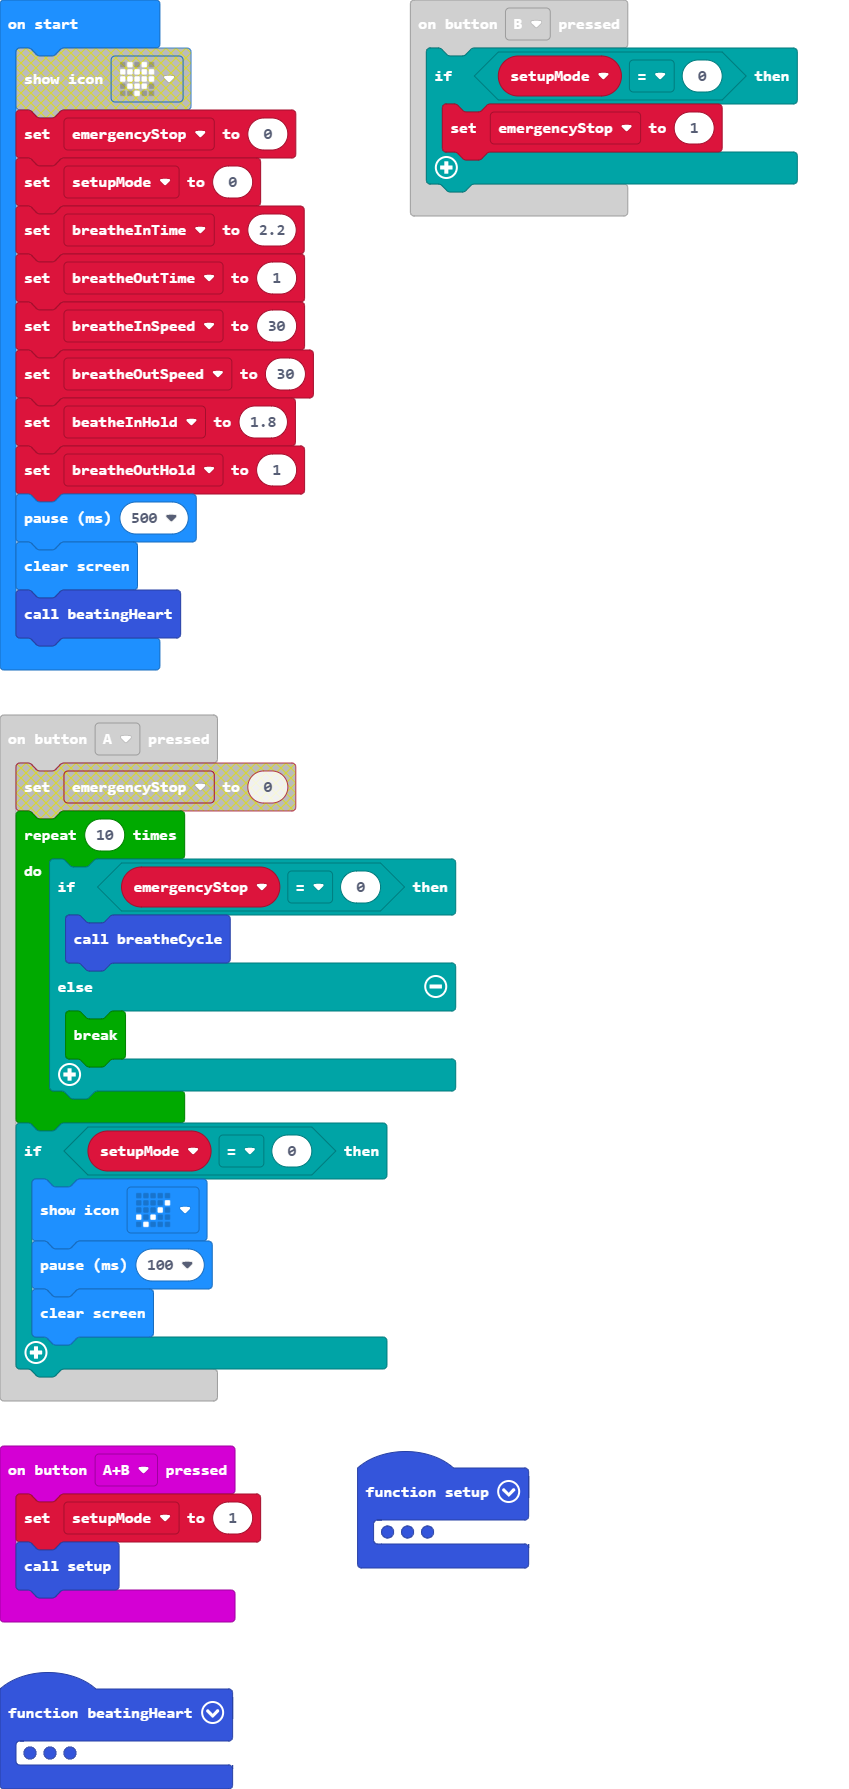
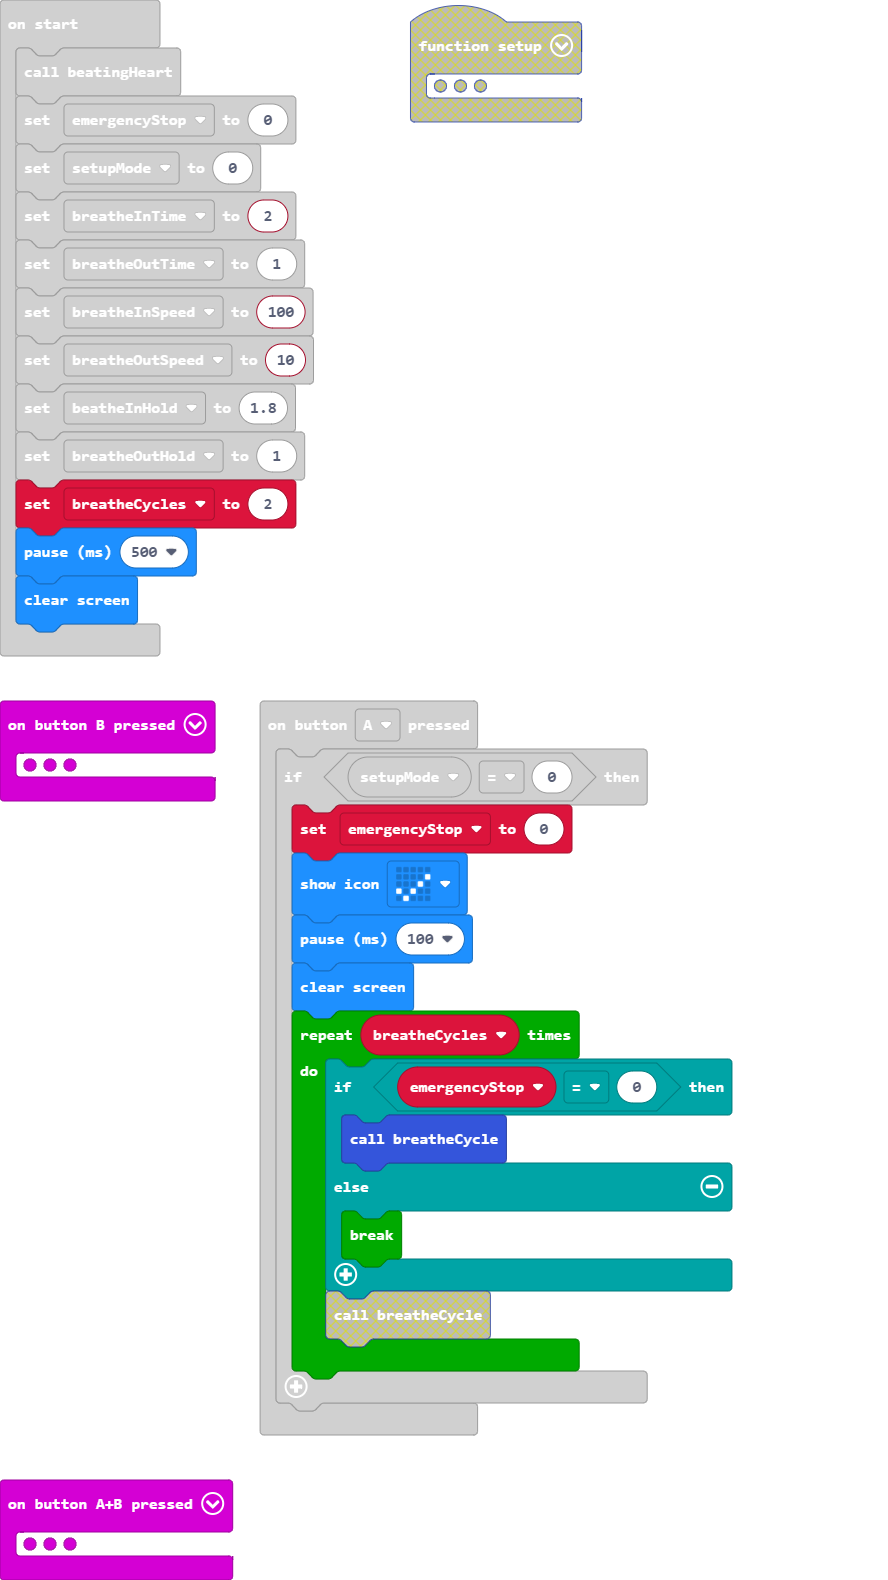
Update main.blocks, main.ts

diff --git a/main.ts b/main.ts
@@ -11,10 +11,11 @@ function breatheCycle () {
 }
 input.onButtonPressed(Button.A, function () {
     if (setupMode == 0) {
+        emergencyStop = 0
         basic.showIcon(IconNames.Yes)
         basic.pause(100)
         basic.clearScreen()
-        for (let index = 0; index < 10; index++) {
+        for (let index = 0; index < breatheCycles; index++) {
             if (emergencyStop == 0) {
                 breatheCycle()
             } else {
@@ -24,8 +25,19 @@ input.onButtonPressed(Button.A, function () {
     }
 })
 input.onButtonPressed(Button.AB, function () {
-    setupMode = 1
-    setup()
+    if (setupMode == 0) {
+        setupMode = 1
+        basic.showIcon(IconNames.Square)
+        basic.showIcon(IconNames.SmallSquare)
+        basic.showIcon(IconNames.SmallDiamond)
+        basic.clearScreen()
+    } else {
+        setupMode = 0
+        basic.showIcon(IconNames.SmallDiamond)
+        basic.showIcon(IconNames.SmallSquare)
+        basic.showIcon(IconNames.Square)
+        basic.clearScreen()
+    }
 })
 function beatingHeart () {
     basic.showIcon(IconNames.Heart)
@@ -47,17 +59,12 @@ function beatingHeart () {
 input.onButtonPressed(Button.B, function () {
     if (setupMode == 0) {
         emergencyStop = 1
+        basic.showIcon(IconNames.No)
+        basic.pause(100)
+        basic.clearScreen()
     }
 })
-function setup () {
-    basic.showIcon(IconNames.Square)
-    basic.showIcon(IconNames.SmallSquare)
-    basic.showIcon(IconNames.SmallDiamond)
-    basic.clearScreen()
-    if (input.buttonIsPressed(Button.AB)) {
-        setupMode = 0
-    }
-}
+let breatheCycles = 0
 let breatheOutHold = 0
 let beatheInHold = 0
 let breatheOutSpeed = 0
@@ -69,11 +76,12 @@ let emergencyStop = 0
 beatingHeart()
 emergencyStop = 0
 setupMode = 0
-breatheInTime = 2.2
+breatheInTime = 2
 breatheOutTime = 1
-breatheInSpeed = 30
-breatheOutSpeed = 30
+breatheInSpeed = 100
+breatheOutSpeed = 10
 beatheInHold = 1.8
 breatheOutHold = 1
+breatheCycles = 2
 basic.pause(500)
 basic.clearScreen()
